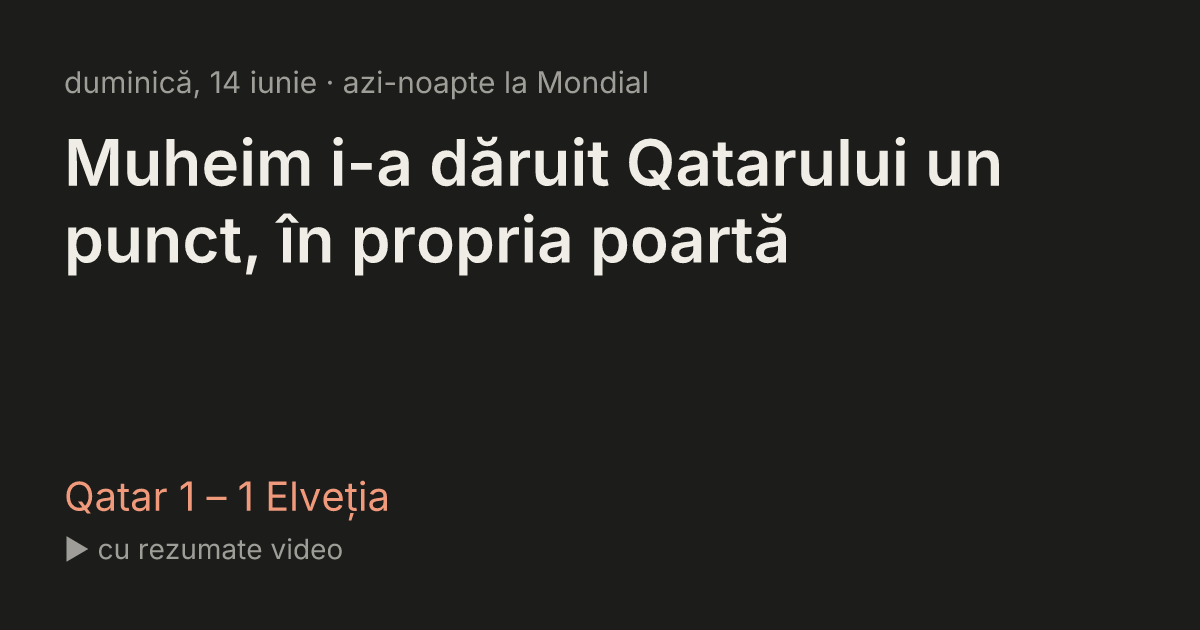
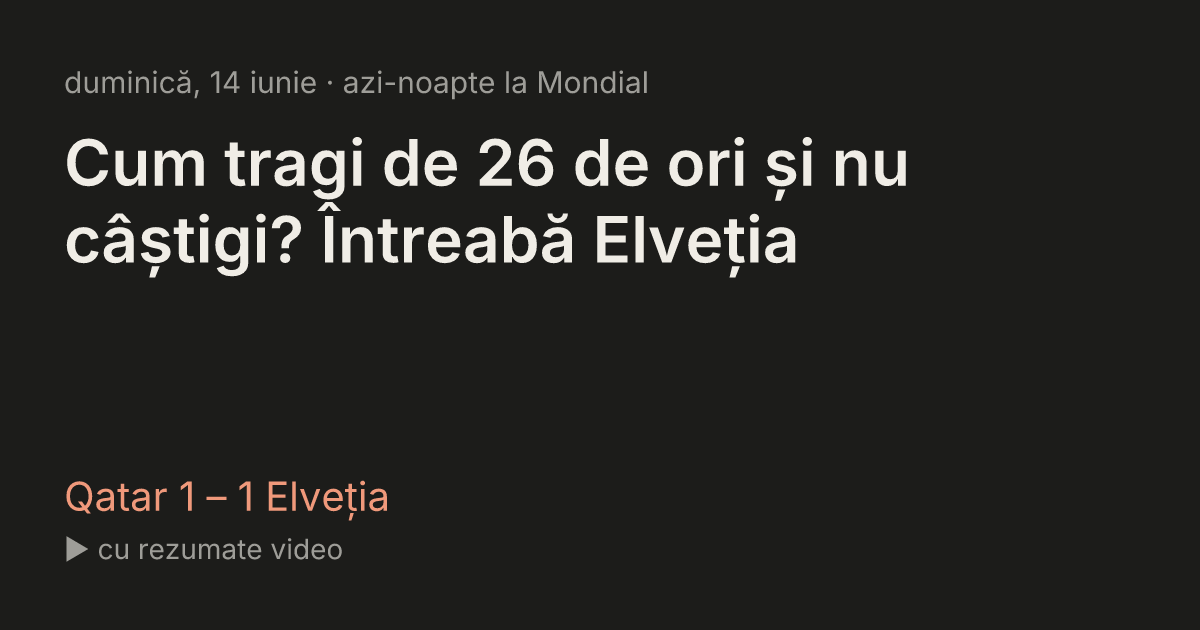
digest: re-narrate 2026-06-14 with natural-prose prompts

Changed region(s): [[0.0617, 0.2111, 0.8325, 0.4524]]

diff --git a/site/index.html b/site/index.html
@@ -5,8 +5,8 @@
   <meta name="viewport" content="width=device-width, initial-scale=1.0" />
   <title>Mondialul de dimineață</title>
   <!-- og:start -->
-  <meta property="og:title" content="Muheim i-a dăruit Qatarului un punct, în propria poartă" />
-  <meta property="og:description" content="O noapte în care posesia n-a plătit nimic: Elveția a tras de 26 de ori și Turcia de 30, fără să câștige ceva. Scoția a luat singura victorie limpede, prin McGinn, în timp ce Brazilia s-a mulțumit cu un egal la debut." />
+  <meta property="og:title" content="Cum tragi de 26 de ori și nu câștigi? Întreabă Elveția" />
+  <meta property="og:description" content="Elveția a dominat tot meciul cu Qatar și a fost prinsă în minutul 90+4 în urma unui autogol, iar Turcia a tras de 30 de ori și tot a pierdut cu 0-2 în fața Australiei. Brazilia s-a încurcat în meciul cu Maroc și pleacă cu un punct, doar Scoția a făcut treaba curat și a luat toate punctele de la Haiti." />
   <meta property="og:image" content="https://mcandea04.github.io/mondial/data/og/2026-06-14.png" />
   <meta property="og:url" content="https://mcandea04.github.io/mondial/" />
   <meta property="og:type" content="website" />
